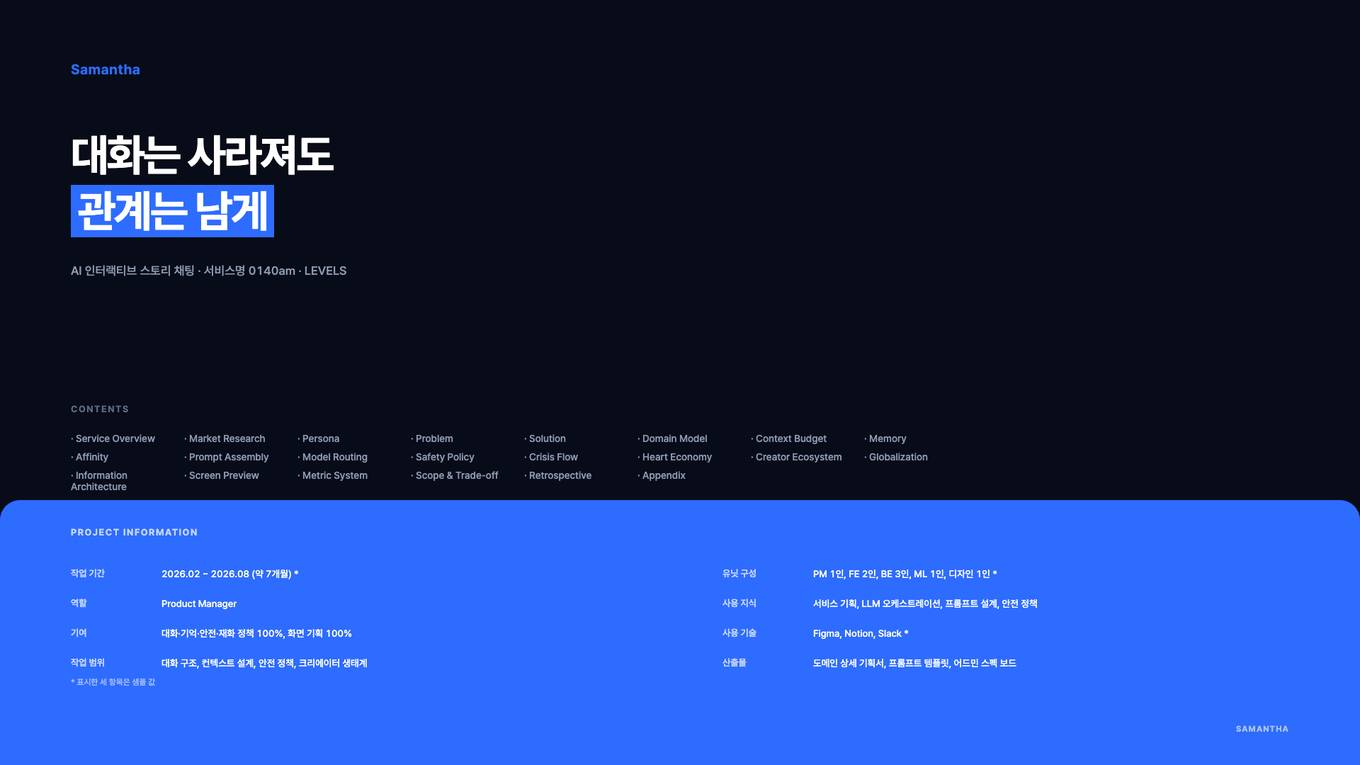
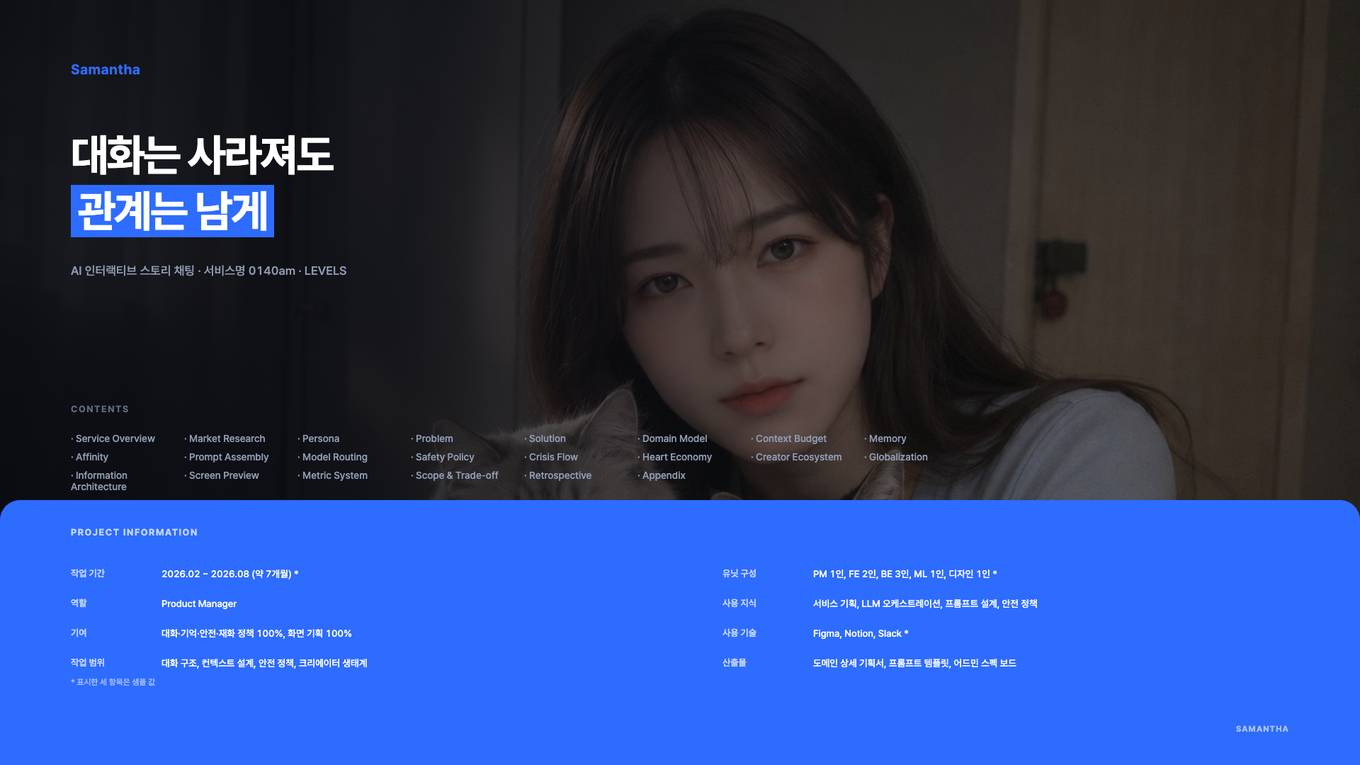
Samantha 표지 슬라이드에 배경 사진 적용
- images/samantha-bg.jpg 추가, .fr.cov 배경으로 깔고 좌측 다크 스크림으로
  텍스트 가독성 확보 (Vuddy 표지와 동일한 패턴)
- 포트폴리오 릴 썸네일(images/samantha-cover.jpg)도 새 표지로 재캡처

diff --git a/works/samantha-embed.html b/works/samantha-embed.html
@@ -420,7 +420,8 @@ svg{font-family:Pretendard;font-variant-numeric:tabular-nums}
 .mem .im{font-size:10.5px;font-weight:700;color:#A4AAB4;flex:none}
 .mem.pin{border-color:#A9C3FB;background:#FAFCFF}
 </style></head><body>
-<div class="wrap" id="sm-01"><div class="stage"><div class="fr cov">
+<div class="wrap" id="sm-01"><div class="stage"><div class="fr cov" style="background-image:url('../images/samantha-bg.jpg');background-size:cover;background-position:center 30%">
+ <div style="position:absolute;inset:0;background:linear-gradient(100deg,rgba(6,8,14,.95) 0%,rgba(6,8,14,.86) 30%,rgba(6,8,14,.5) 52%,rgba(6,8,14,.15) 74%,rgba(6,8,14,0) 94%)"></div>
  <div style="position:absolute;left:100px;top:86px;font-size:20px;font-weight:700;color:var(--lime);letter-spacing:.02em">Samantha</div>
  <div style="position:absolute;left:100px;top:180px;width:1300px;font-size:62px;font-weight:700;
    color:#fff;line-height:1.28;letter-spacing:-.04em">대화는 사라져도<br><em style="font-style:normal;background:var(--lime);color:#fff;padding:0 10px">관계는 남게</em></div>
